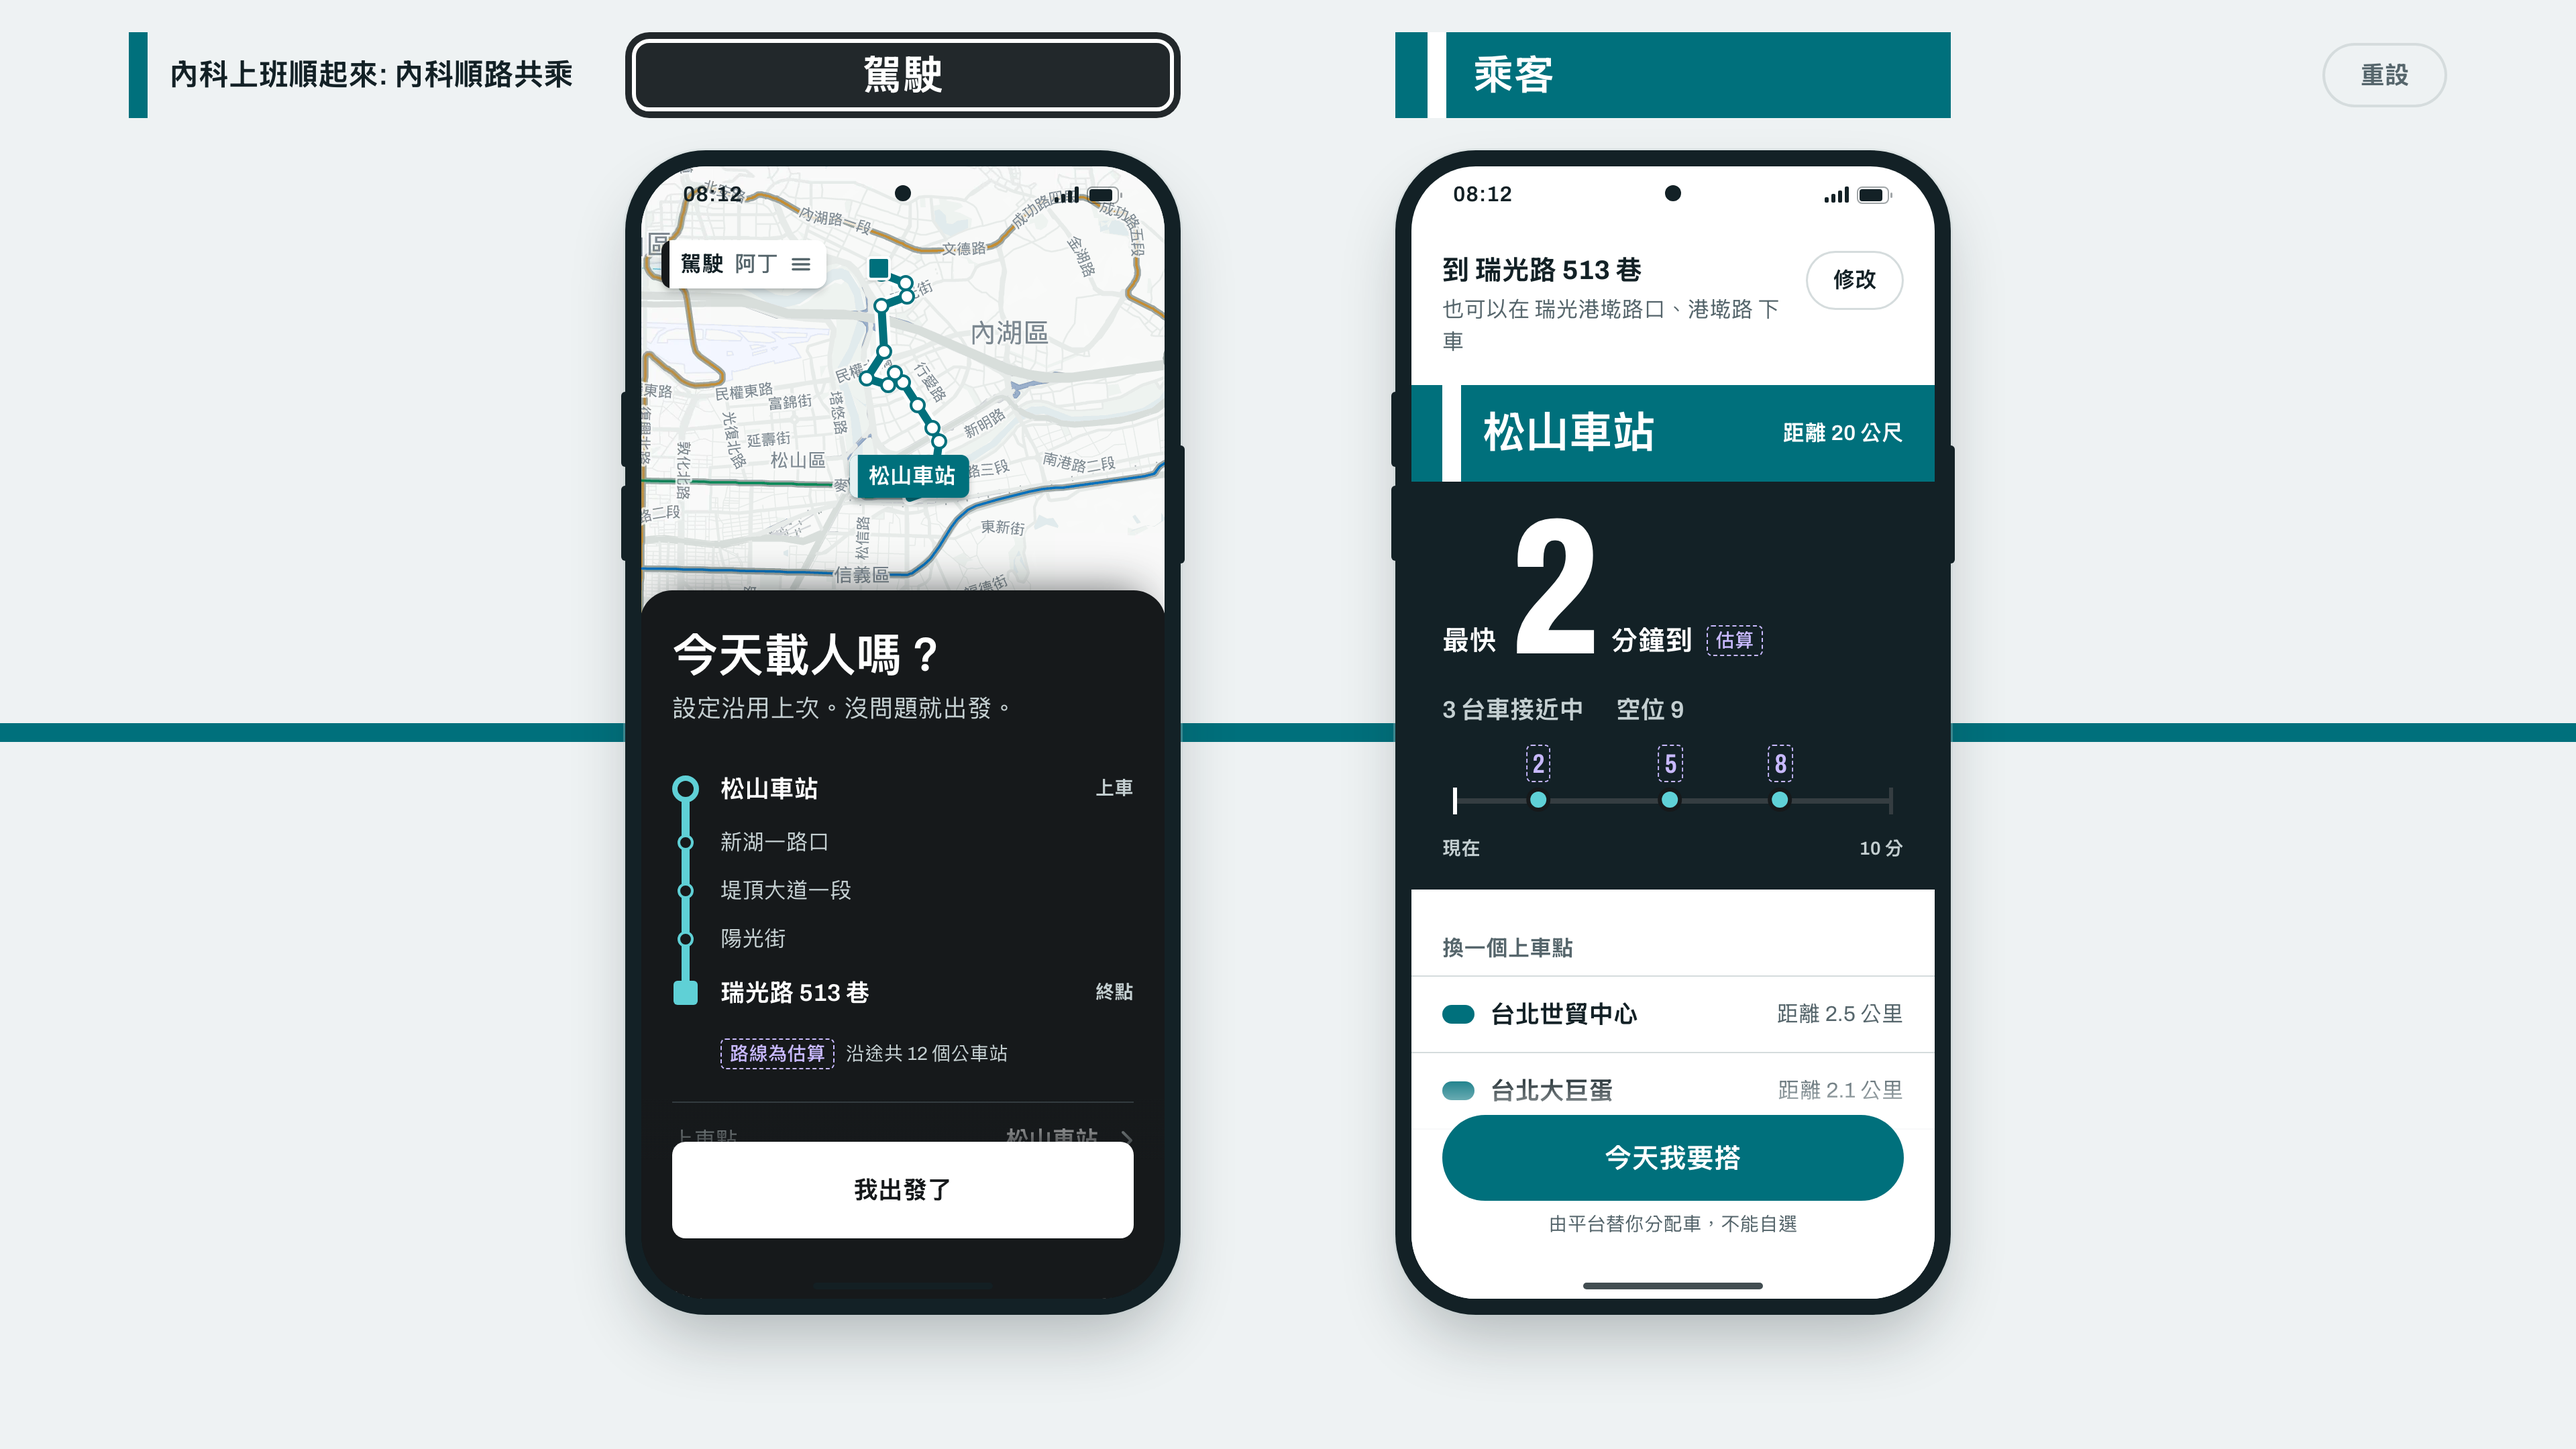
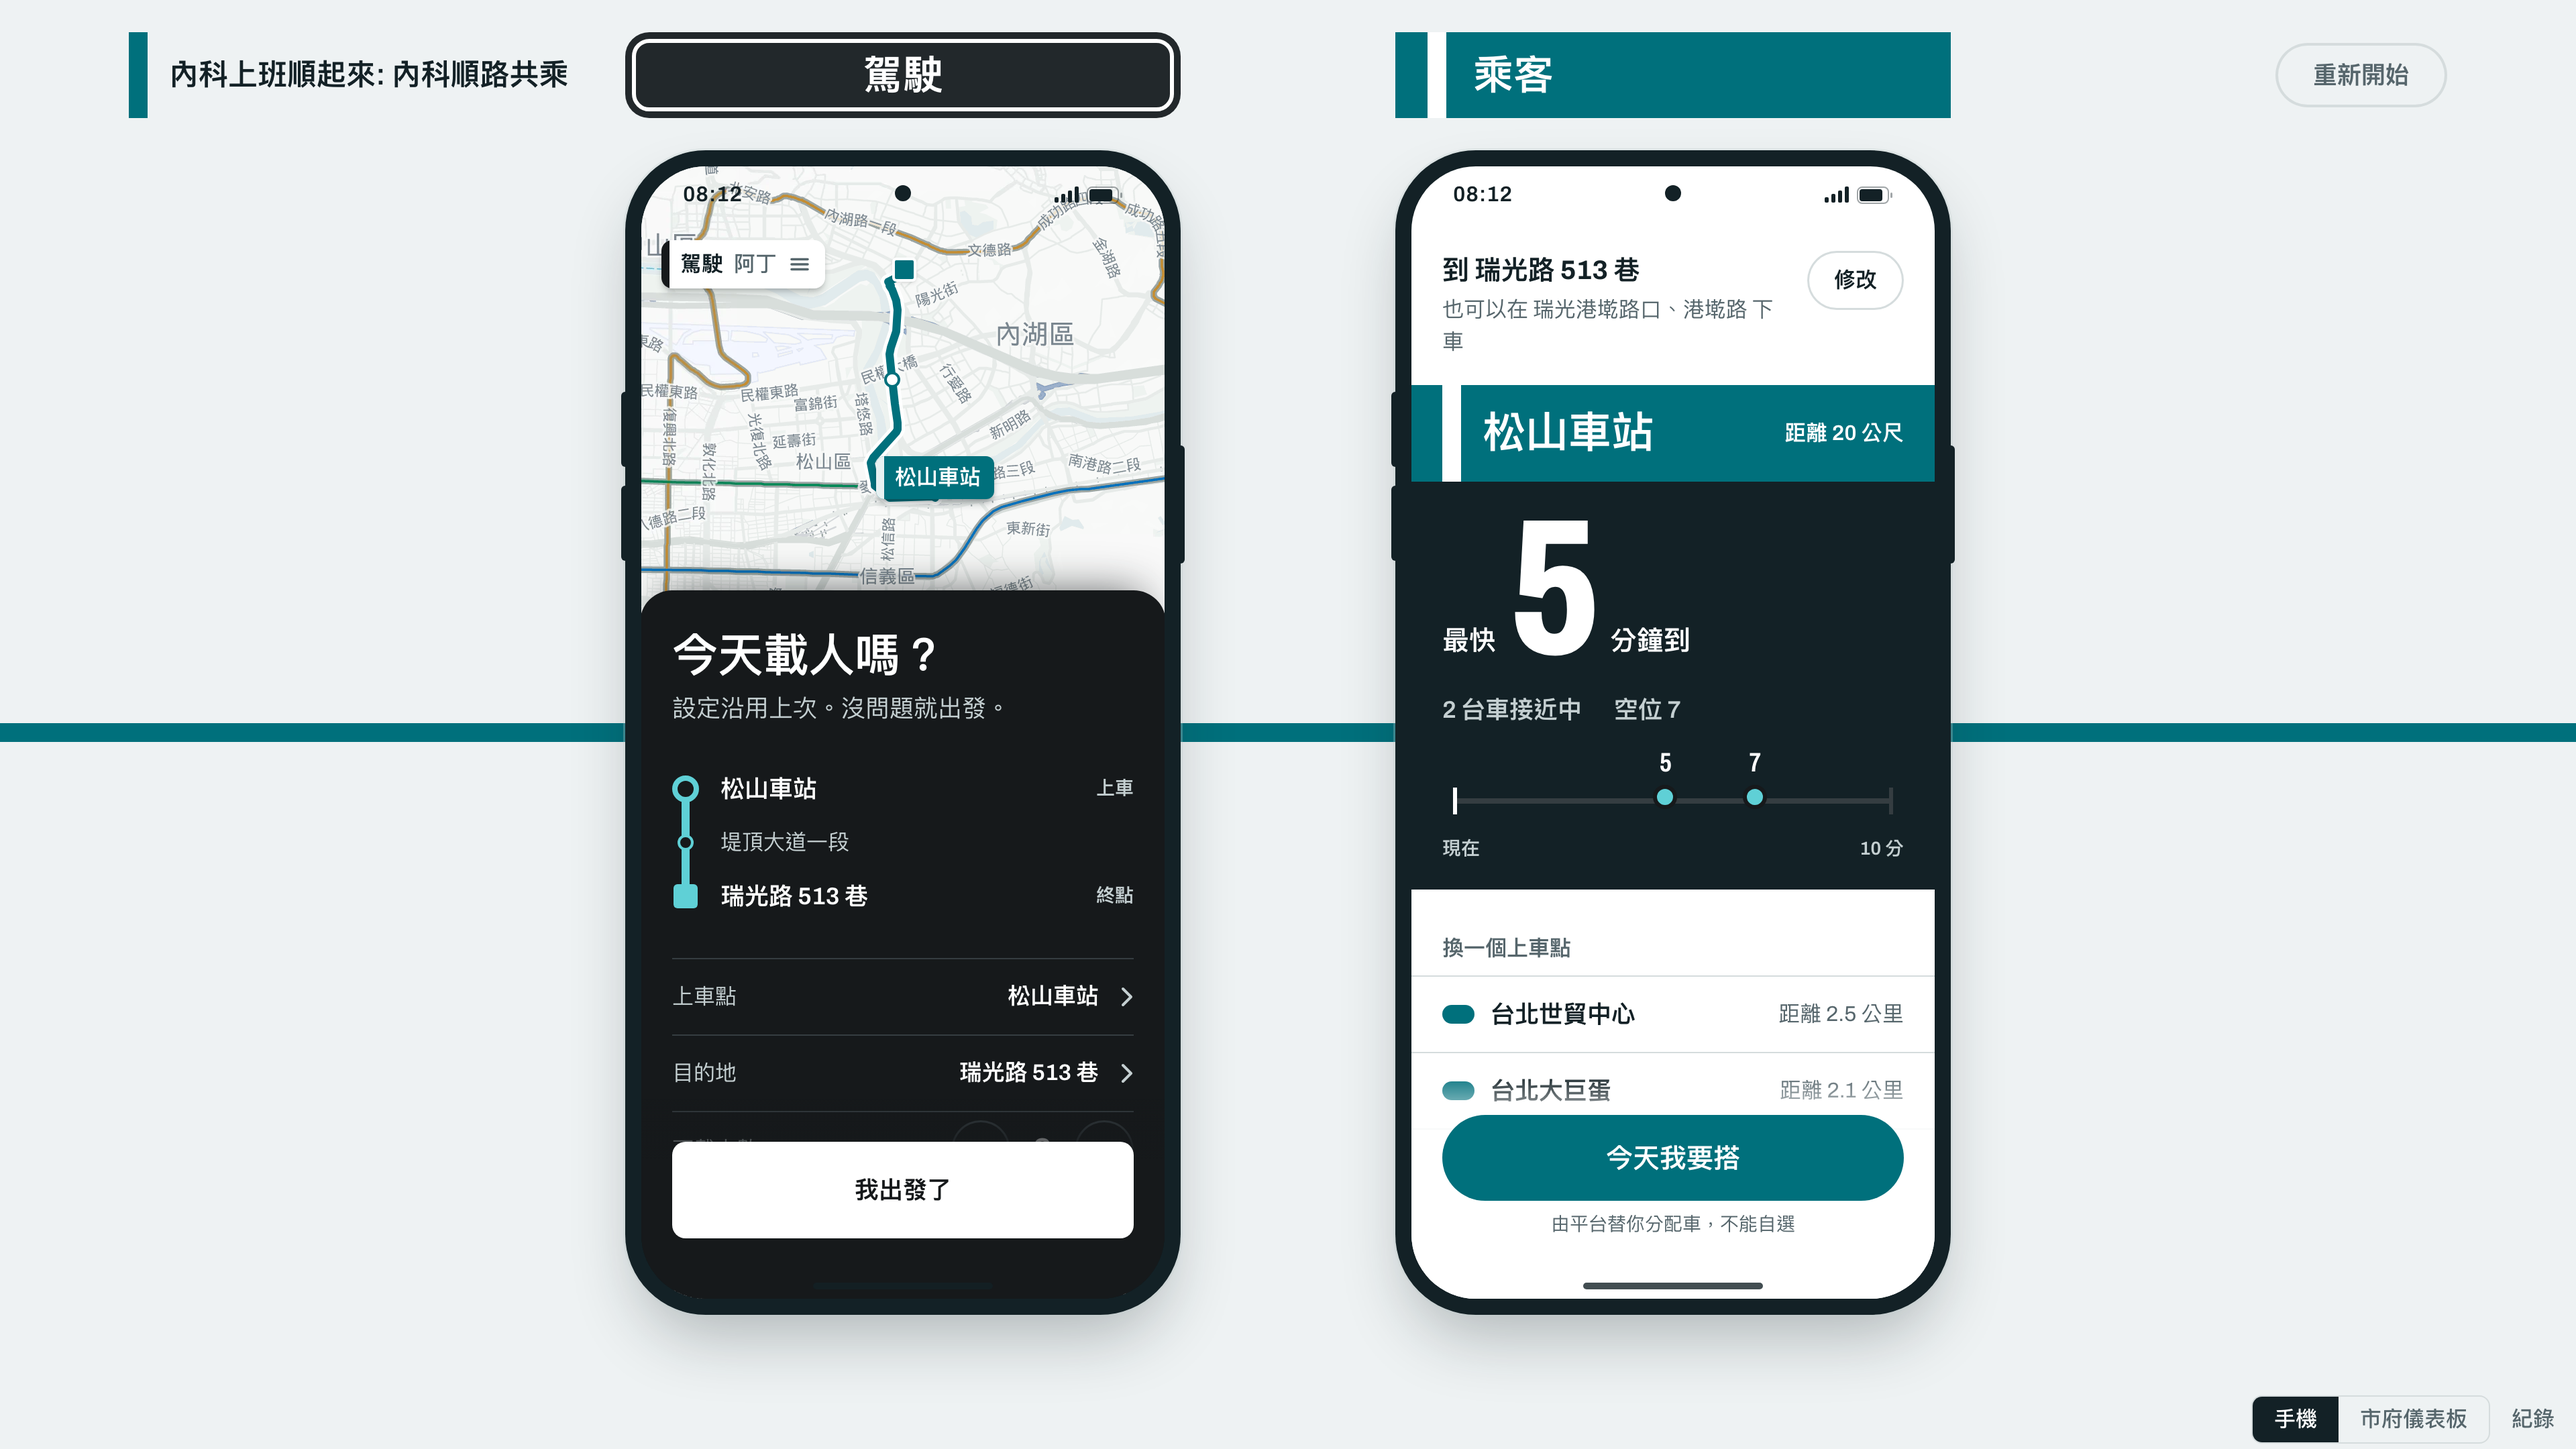
docs: refresh pitch screenshots with the showcase phones and city dashboard

diff --git a/docs/pitch-screenshots.md b/docs/pitch-screenshots.md
@@ -1,21 +1,51 @@
 # 內科上班順起來: 內科順路共乘 - Demo 截圖
 
-[簡報大綱](pitch-outline.md)〈我們的做法〉前三步的畫面：左邊是駕駛 App，右邊是乘客 App，兩支手機並排在展示頁上。截圖接示範後端，3840×2160（16:9），可以直接放進投影片。
+[簡報大綱](pitch-outline.md)〈我們的做法〉的畫面。前五張是展示頁的「手機」畫面：左邊是駕駛 App，右邊是乘客 App；後三張是展示頁的「市府儀表板」。截圖接示範後端，照 `docs/demo-script.md` 跑一次 Demo 時拍下，3840×2160（16:9），可以直接放進投影片。
 
 ## 1. 出發前
 
-駕駛還沒出發，畫面問「今天載人嗎？」；乘客要到瑞光路 513 巷，在松山車站看附近的車，最快 2 分鐘到。
+駕駛還沒出發，畫面問「今天載人嗎？」；乘客要到瑞光路 513 巷，在松山車站看附近的車，最快 5 分鐘到。
 
 ![出發前：駕駛在「今天載人嗎？」，乘客在松山車站看供給](images/pitch/01-idle.png)
 
-## 2. 乘客送出請求
+## 2. 乘客選條件
 
-駕駛出發後，乘客送出請求。平台把請求配給駕駛，駕駛畫面變黃，只需要按「確認」；乘客在等駕駛確認。
+駕駛出發後，乘客按「今天我要搭」，把不抽菸、安靜坐車設成「一定要」，再送出請求。
 
-![乘客送出請求：駕駛收到「有乘客要搭車」，乘客在等駕駛確認](images/pitch/02-request.png)
+![乘客選條件：不抽菸、安靜坐車一定要](images/pitch/02-filters.png)
 
-## 3. 駕駛確認
+## 3. 駕駛收到請求
+
+第一位駕駛不符合條件而婉拒，平台改配給下一台車。駕駛畫面變黃，只需要按「確認」；乘客在等駕駛確認。
+
+![駕駛收到「有乘客要搭車」，乘客看到已改配下一台車](images/pitch/03-request.png)
+
+## 4. 駕駛確認
 
 駕駛確認後，乘客看到車牌、車型與到達時間，車子在地圖上開過來。
 
-![駕駛確認：乘客看到車牌 ABC-0004 與「4 分鐘後到」](images/pitch/03-confirmed.png)
+![駕駛確認：乘客看到車牌 ABC-0004 與「5 分鐘後到」](images/pitch/04-confirmed.png)
+
+## 5. 共乘完成
+
+乘客上車，車開到目的地，行程自己結束：駕駛看到「這趟載了 1 位乘客」，乘客看到「共乘完成」。
+
+![共乘完成：駕駛與乘客的行程結束畫面](images/pitch/05-completed.png)
+
+## 6. 市府儀表板：總覽
+
+估計減少的車次、路上的共乘車、配對成功率，16 個進內湖入口的路況，以及過去 10 個上班日的共乘數與各上車點的情況。
+
+![市府儀表板總覽](images/pitch/06-dashboard-overview.png)
+
+## 7. 市府儀表板：即時地圖
+
+此刻路上的共乘車與各上車點等待配對的人數。
+
+![市府儀表板即時地圖](images/pitch/07-dashboard-live.png)
+
+## 8. 市府儀表板：車流熱力
+
+各入口每 15 分鐘的路況，以及最慢入口的車速、車流與佔有率。
+
+![市府儀表板車流熱力](images/pitch/08-dashboard-traffic.png)
